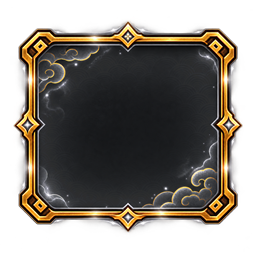
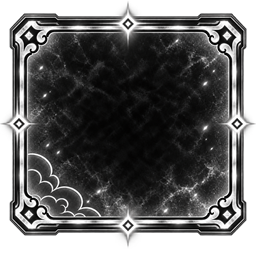
ajout changement Ui

diff --git a/naruto_dev/tools/README-f4.md b/naruto_dev/tools/README-f4.md
@@ -4,6 +4,13 @@ Le menu utilise `materials/ui/newUi/optimized/`. Les PNG sources sont conservés
 Régénération : `powershell -File tools/optimize-newui.ps1` depuis cet addon.
 Cases : 256 px ; boutons : 512 px ; panneaux : 768 px ; fond conservé.
 
+Première ouverture : les textures fixes sont préparées progressivement après
+l'arrivée du joueur (une toutes les 250 ms). Le cadre est affiché avant les
+aperçus, puis une création d'aperçu au maximum est traitée par image.
+Les icônes de la grille ne sont créées que lorsqu'elles entrent dans la zone
+visible. Les tâches dont le panneau a été supprimé sont ignorées.
+Le chargement d'un modèle individuel reste synchrone dans le moteur.
+
 Les 40 emplacements et les messages serveur existants sont conservés.
 Clic simple : détails ; clic droit / double clic : équiper ou retirer.
 Les accessoires sont dans Cosmétiques, les autres objets dans Objets.
@@ -17,12 +24,14 @@ Le tri conserve les indices d'inventaire : équiper vise toujours le bon objet.
 `DefinirRareteItem(slot, "epique")` met à jour un objet existant.
 Les définitions d'armes peuvent déclarer `SWEP.Rarete = "rare"`.
 La rareté reste attachée à l'objet équipé puis retiré. Elle apparaît dans
-sa case, son infobulle et sa fiche. Commun utilise la case sombre (sans gris),
-rare le bleu, épique le violet, légendaire l'orange. Ce classement est visuel,
+sa case, son infobulle et sa fiche. Les cases utilisent les images optimisées
+comun, rare, epique et legendaire. Ce classement est visuel,
 sans modification des statistiques ni probabilités de butin.
 
 Contrôle en jeu à effectuer :
 - F4 et Échap ; recherche puis Entrée ; ouverture répétée.
+- Première ouverture après connexion ; fermer pendant le chargement, rouvrir,
+  puis filtrer et faire défiler pendant l'apparition progressive des icônes.
 - `test_items` uniquement sur une session de développement (remplit des cases).
 - Onglets, recherche, tri, quantités et défilement des 40 cases.
 - Équiper / retirer tenue, masque, accessoire et épée ; ajuster leur placement.
